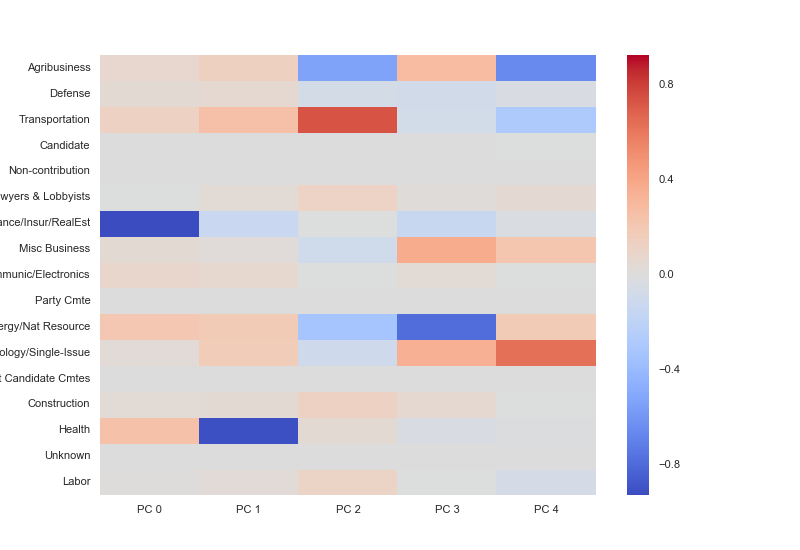
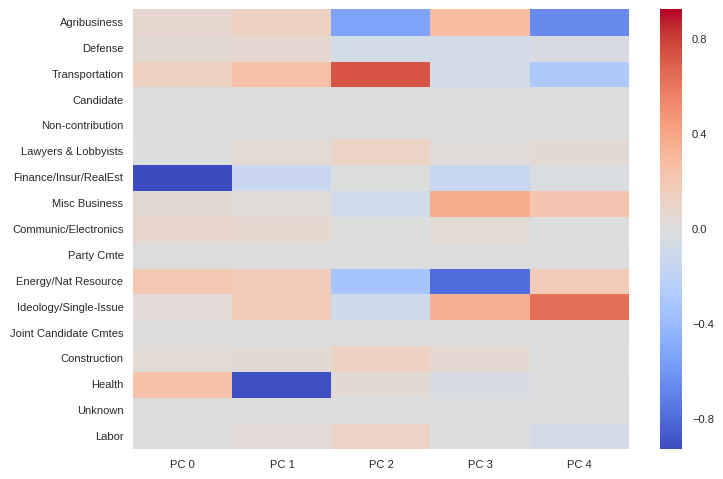
train data via LOOCV

diff --git a/keri/scripts/LOOCV.py b/keri/scripts/LOOCV.py
@@ -1,46 +1,49 @@
 #!/bin/env python
 
+import IPython
 import argparse
+import numpy as np
 import pandas as pd
 import os
 import sys
[1 lines of base64/hex data omitted]
-import IPython
+sys.path.append('../../joe/scripts/')
+from train import *
+from sklearn import cross_validation
 
 parser = argparse.ArgumentParser(description='LOOCV over dataset')
 parser.add_argument('--fm', type=str, help='feature matrix',
         default='../../data/features/cand_parse_moderates_2014_feat_matrix.pkl')
-parser.add_argument('--cf', type=str, help='file of candidates and
-        CIDs', default='../../joe/out/test.dat')
-parser.add_argument('--train', type=str, help='training method')
+parser.add_argument('--cf', type=str, help='file of candidates and'
+        'CIDs', default='../../joe/out/test_update.dat')
 args, unknown = parser.parse_known_args()
 
 def main():
-    data = np.array(pd.read_pickle(args.fm))
-    cols = ['name', 'state', 'CID', 'note', 'dwn0', 'dwn1']
+    # read in data
+    data = pd.read_pickle(args.fm)
+    cols = ['name', 'state', 'CID', 'dwn0', 'dwn1']
     cands = pd.read_csv(args.cf, sep='\t', names=cols)
-    scores = list(cands['dwn0'])
+    cids = np.array(cands['CID'])
+    dwn0 = np.array(cands['dwn0'])
+    dwn1 = np.array(cands['dwn1'])
 
-    method = args.train
-    if method == 'LR':
-        from whatevr import lr as train
-    if method == 'SVR':
-        from whatevr import svr as train
+    # train via LOOCV
+    nc = cands.shape[0]
+    loo = cross_validation.LeaveOneOut(nc)
+    lr = []
+    svr = []
+    for train_index, test_index in loo:
+        X_train, X_test = data.T[cids[train_index]], data.T[cids[test_index]]
+        Y_train, Y_test = dwn0[train_index], dwn0[test_index]
+        lr.append(linear_regression(np.array(X_train).T, Y_train, np.array(X_test).T, Y_test))
+        svr.append(SVR(np.array(X_train).T, Y_train, np.array(X_test).T, Y_test))
 
-    errors = []
-    models = []
-    for ndx, d in enumerate(data):
-        test = d
-        train = np.delete(data, (ndx), axis=0)
-        test_score = scores[ndx]
-        train_score = np.delete(scores, (ndx))
+    # get minimum error results
+    lr = np.array(lr)
+    lr_min_err = lr[lr[:,1].argmin()]
+    svr = np.array(svr)
+    svr_min_err = svr[svr[:,1].argmin()]
 
-        model, error = train(train, test, test_score, train_score)
-        errors.append(error)
-        models.append(model)
-
-    avg_error = np.average(np.array(errors))
-    best_model = models[errors.argmin()]
+    IPython.embed()
 
 if __name__ == '__main__':
     main()

diff --git a/data/scripts/financial_vector.py b/data/scripts/financial_vector.py
@@ -1,0 +1,82 @@
+#!/bin/env python
+
+"""
+give a candidate, return vector of normalized funding values
+"""
+
+from crpapi import CRP, CRPApiError
+import argparse
+import json
+
+parser = argparse.ArgumentParser(description='get voting and financial information for an input candidate')
+parser.add_argument('--cid', type=str, help='CRP CID', default='N00007360')
[1 lines of base64/hex data omitted]
+parser.add_argument('--yr', type=str, help='query year', default='2012')
+parser.add_argument('--ak', type=str, help='api key')
+parser.add_argument('--write_dicts', action='store_true', help='write candidate data to dat file', default=False)
+parser.add_argument('--ip', action='store_true', help='open ipython after variable declaration', default=False)
+args = parser.parse_args()
+
+def json_dict(d):
+    return json.dumps(d, sort_keys=True, indent=2)
+
+def dict_to_dat(fn, d):
+    print >>open(fn,'w+'), json_dict(d)
+
+def main():
+    CRP.apikey = args.ak
+    cid = args.cid
+    yr = args.yr
+    pref = args.pref
+    
+    #---------- CANDIDATE META INFO ----------#
+    '''
+    contribution information on a candidate for indicated cycle
+    '''
+    c_sum = CRP.candSummary.get(cid=cid, cycle=yr)
+    
+    #---------- FINANCE STREAMS ----------#
+    '''
+    member personal financial disclosure statement
+    '''
+    mem_pfd = CRP.memPFDprofile.get(cid=cid, year=yr)
+    '''
+    top contributors to a candidate/member for indicated period
+    '''
+    top_cont = CRP.candContrib.get(cid=cid, cycle=yr)
+    '''
+    top industries to a candidate/member for indicated period
+    '''
+    top_indust = CRP.candContrib.get(cid=cid, cycle=yr)
+    '''
+    top sectors to a candidate/member for indicated period
+    '''
+    top_sect = CRP.candSector.get(cid=cid, cycle=yr)
+
+    if args.write_dicts:
+        labels = {
+            0   : 'c_sum',
+            1   : 'mem_pfd',
+            2   : 'top_cont',
+            3   : 'top_indust',
+            4   : 'top_sect',
+        }
+        
+        # trying to decide features, going to write choices to file
+        data_dicts = [c_sum, mem_pfd, top_cont, top_indust, top_sect]
+        for ndx, i in enumerate(data_dicts):
+            of = pref + labels[ndx] + '.dat'
+            dict_to_dat(of, i)
+    
+    # if i want to interact with the data
+    if args.ip:
+        import IPython
+        IPython.embed()
+
+    '''
+    not used: 
+
+    '''
+
+if __name__ == '__main__':
+    main()

diff --git a/keri/scripts/plt_dm.py b/keri/scripts/plt_dm.py
@@ -10,12 +10,10 @@ import IPython
 parser = argparse.ArgumentParser(description='plot pd dataframe as heatmap')
 parser.add_argument('--df', type=str, help='pd df pickle')
 parser.add_argument('--cols', type=str, help='column range')
-parser.add_argument('--o', type=str, help='name of output file',
-        default='features.png')
+parser.add_argument('--opref', type=str, help='name of output file directory',
+        default='../../data/features/visualize/')
 parser.add_argument('--pca', type=int, help='number of PCA'
         'components', default=0)
-parser.add_argument('--pchm', type=str, help='name of PCA HM output file')
-parser.add_argument('--pcpg', type=str, help='name of PCA PG output file')
 args = parser.parse_args()
 
 sns.set(font_scale=.8)
@@ -23,6 +21,8 @@ sns.set_style(style='white')
 cm = 'coolwarm'
 
 def main():
+    opref = args.opref
+
     data_file = args.df
     data_name = data_file.split('.')[0]
     df = pd.read_pickle(data_file)
@@ -35,7 +35,7 @@ def main():
     fig = plt.gcf()
     plt.xticks(rotation=90)
     plt.yticks(rotation=0)
-    fig.savefig(args.o)
+    fig.savefig(opref + 'feature_hm.png', bbox_inches='tight')
 
     nc = args.pca
     if nc > 0:
@@ -51,14 +51,14 @@ def main():
         pc_hm = sns.heatmap(pc_df, cmap=cm)
         fig = plt.gcf()
         plt.yticks(rotation=0)
-        fig.savefig(args.pchm)
+        fig.savefig(opref + 'pc_hm.png', bbox_inches='tight')
 
         plt.clf()
         g = sns.PairGrid(pc_df)
         g.map_lower(plt.hexbin, gridsize=30, mincnt=1, cmap=cm,
                 edgecolor='none')
         g.map_diag(sns.kdeplot, lw=1, legend=False)
-        g.savefig(args.pcpg)
+        g.savefig(opref + 'pc_pg.png', bbox_inches='tight')
 
 if __name__ == '__main__':
     main()    

diff --git a/joe/scripts/train.py b/joe/scripts/train.py
@@ -16,6 +16,6 @@ def linear_regression(X_train, Y_train, X_test, Y_test):
 
 def SVR(X_train, Y_train, X_test, Y_test, kernel='linear'):
     opt = svm.SVR(kernel=kernel)
-    opt.fit(X,Y)
+    opt.fit(X_train,Y_train)
     return opt, square_resid(opt.predict(X_test), Y_test)
 
